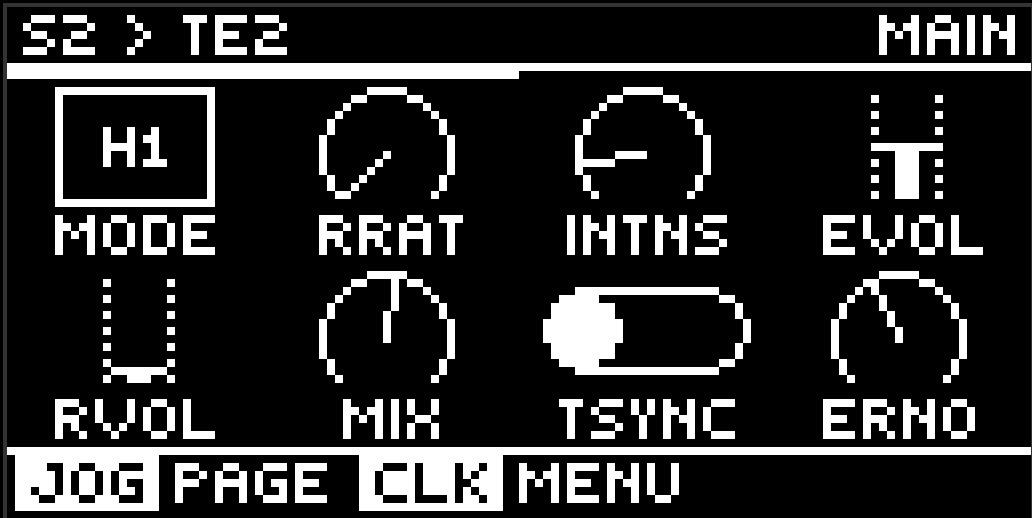
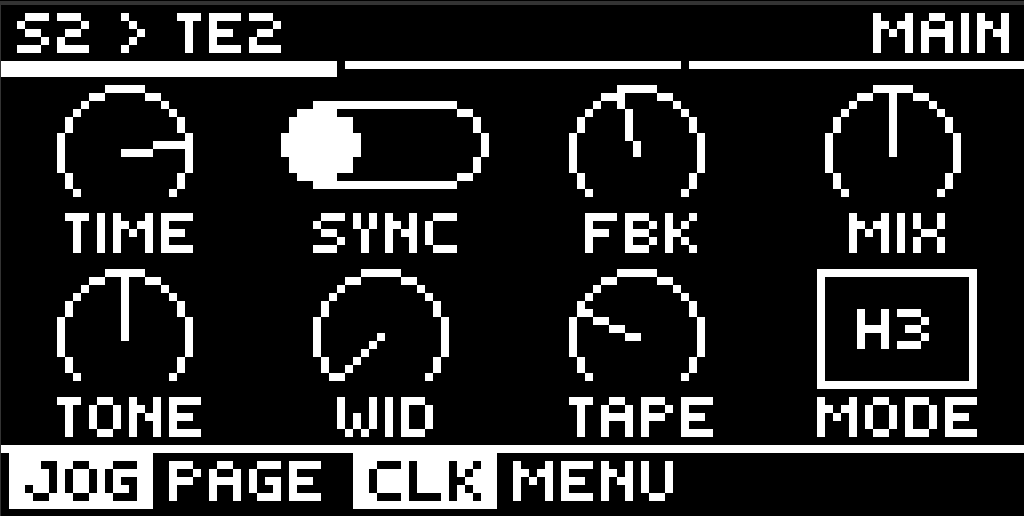
docs: screenshots of the three-page surface
Replaces the two-page shots the previous commit flagged as wrong. Main,
Advanced and Out as they render on the device, plus the panel with the macro
row and the corrected attribution line in its footer.

v1.4.1

diff --git a/README.md b/README.md
@@ -6,8 +6,9 @@ head and reverb combinations, record EQ and tape saturation inside the
 feedback loop so every repeat darkens and compresses, wow and flutter, tape
 age, and tempo sync with the reference machine's leading-head note tables.
 
-![Tape Echo 2 — page 1](docs/page_1.png)
-![Tape Echo 2 — page 2](docs/page_2.png)
+![Main](docs/page_1.png)
+![Advanced](docs/page_2.png)
+![Out](docs/page_3.png)
 
 ## Controls
 
